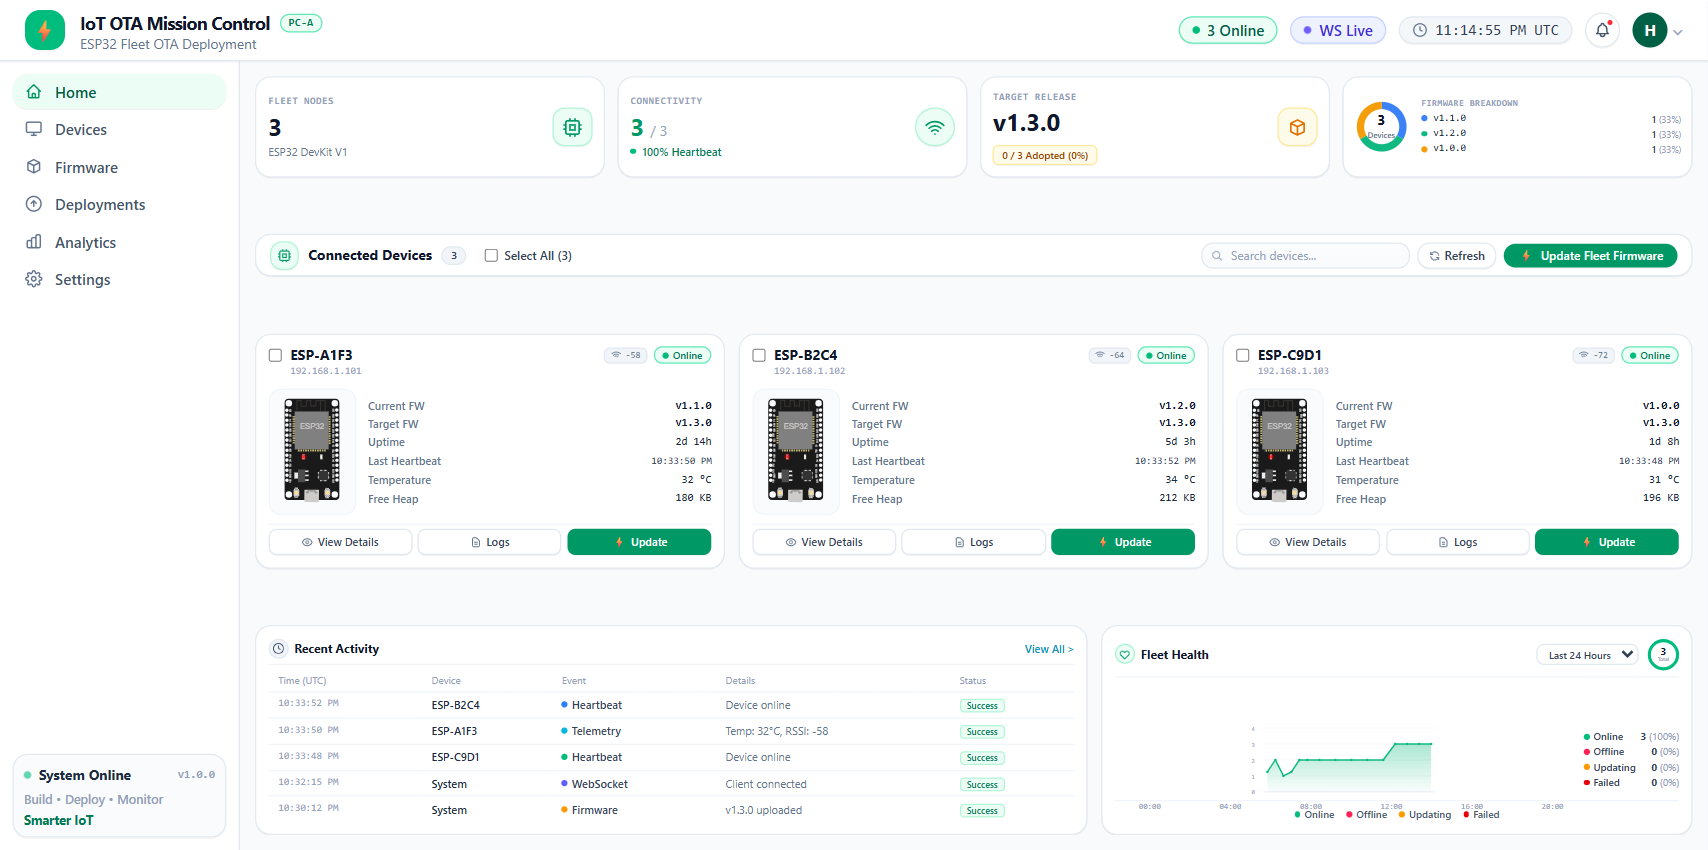
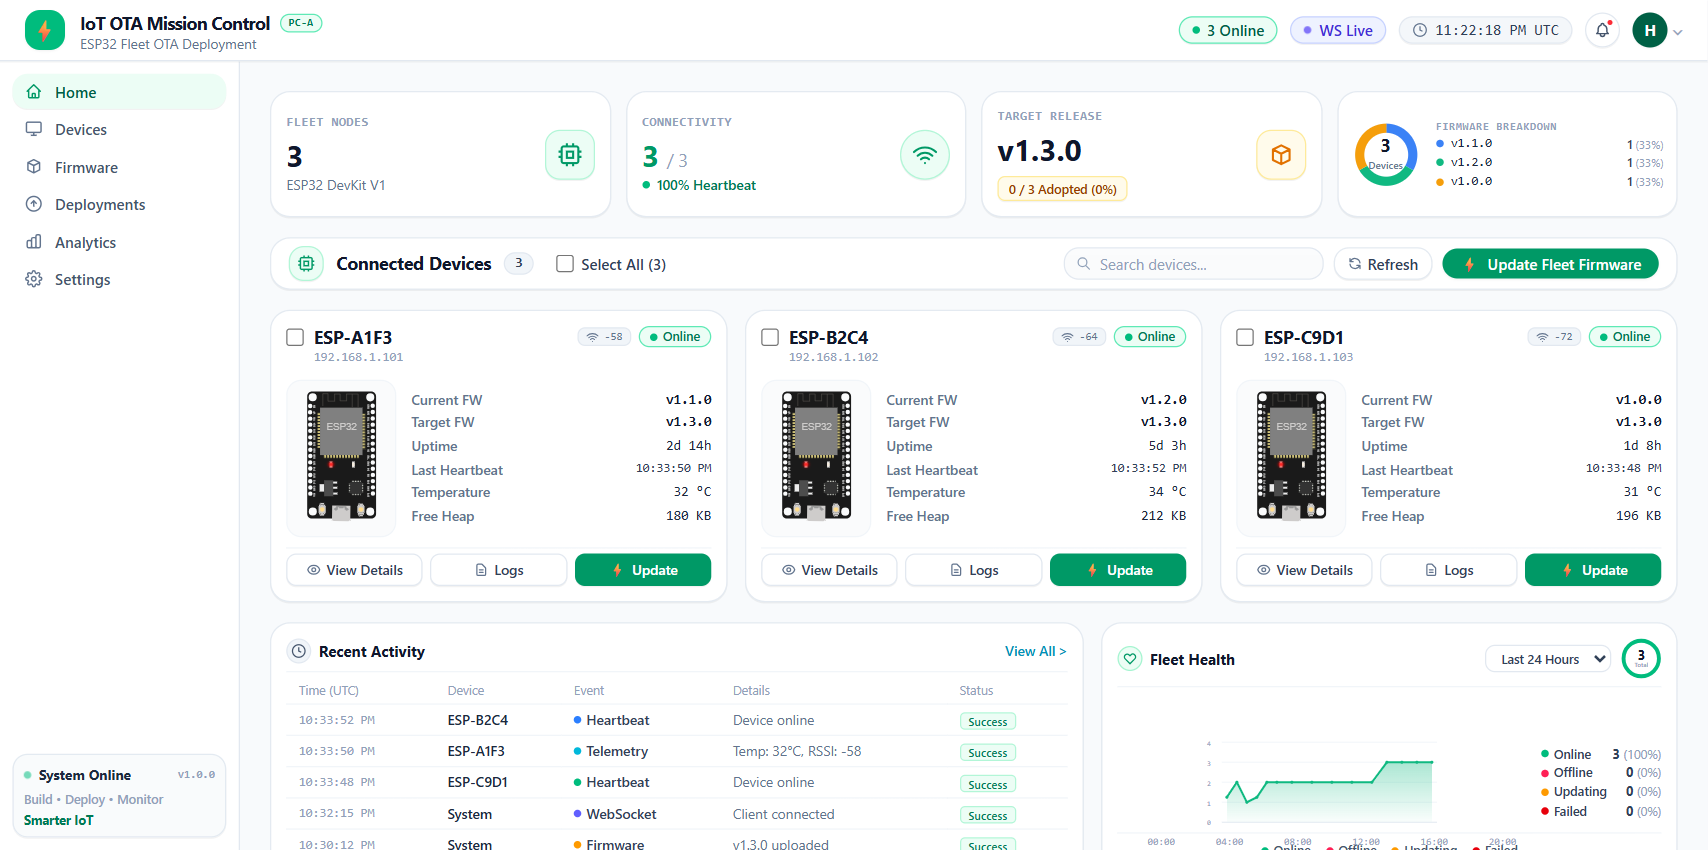
fix: remove artificial zoom scaling and restore native responsive layout with fluid scrolling

diff --git a/dashboard/src/pages/FirmwarePage.tsx b/dashboard/src/pages/FirmwarePage.tsx
@@ -1,7 +1,6 @@
 import React, { useState, useRef } from 'react'
 import type { FirmwareVersion } from '@shared/types'
 import { api } from '../hooks/useWebSocket'
-import { AdaptiveViewport } from '../components/AdaptiveViewport'
 
 interface Props {
   firmware: FirmwareVersion[]
@@ -129,8 +128,7 @@ export function FirmwarePage({ firmware, onRefresh }: Props) {
   }
 
   return (
-    <AdaptiveViewport baseHeight={700} minWidth={1000} className="w-full h-full">
-      <div className="p-6 max-w-6xl mx-auto space-y-6">
+    <div className="max-w-6xl mx-auto space-y-6 w-full">
       {/* Top Header */}
       <div className="flex items-center justify-between bg-white p-5 rounded-2xl border border-slate-200 shadow-xs">
         <div>
@@ -327,7 +325,6 @@ export function FirmwarePage({ firmware, onRefresh }: Props) {
           </div>
         </div>
       )}
-      </div>
-    </AdaptiveViewport>
+    </div>
   )
 }

diff --git a/dashboard/src/pages/FleetGrid.tsx b/dashboard/src/pages/FleetGrid.tsx
@@ -1,7 +1,6 @@
 import React, { useState, useMemo } from 'react'
 import type { Device, FirmwareVersion, LogEntry } from '@shared/types'
 import { Esp32Board } from '@shared/components/Esp32Board'
-import { AdaptiveViewport } from '../components/AdaptiveViewport'
 
 interface Props {
   devices: Device[]
@@ -136,7 +135,7 @@ export function FleetGrid({
   ]
 
   return (
-    <AdaptiveViewport baseHeight={760} minWidth={1080}>
+    <div className="space-y-4 max-w-7xl mx-auto w-full">
       {/* ─── ROW 1: 4 KPI STATS CARDS ─────────────────────────────────────────── */}
       <div className="grid grid-cols-1 sm:grid-cols-2 lg:grid-cols-4 gap-3">
         {/* Card 1: Fleet Nodes */}
@@ -720,6 +719,6 @@ export function FleetGrid({
           </div>
         </div>
       </div>
-    </AdaptiveViewport>
+    </div>
   )
 }

diff --git a/dashboard/src/pages/AnalyticsPage.tsx b/dashboard/src/pages/AnalyticsPage.tsx
@@ -1,6 +1,5 @@
 import React, { useState } from 'react'
 import type { Device, FirmwareVersion } from '@shared/types'
-import { AdaptiveViewport } from '../components/AdaptiveViewport'
 
 interface Props {
   devices: Device[]
@@ -67,7 +66,7 @@ export function AnalyticsPage({ devices, firmware }: Props) {
   ]
 
   return (
-    <AdaptiveViewport baseHeight={770} minWidth={1080}>
+    <div className="space-y-4 max-w-7xl mx-auto w-full">
       {/* ─── PAGE HEADER & GLOBAL TIMEFRAME FILTER ─────────────────────────────── */}
       <div className="flex items-center justify-between">
         <div className="flex items-center gap-2.5">
@@ -663,6 +662,6 @@ export function AnalyticsPage({ devices, firmware }: Props) {
           </div>
         </div>
       </div>
-    </AdaptiveViewport>
+    </div>
   )
 }

diff --git a/dashboard/src/App.tsx b/dashboard/src/App.tsx
@@ -294,7 +294,7 @@ export default function App() {
         </aside>
 
         {/* Right Main Content */}
-        <main className="flex-1 overflow-hidden bg-slate-50/50 p-3">
+        <main className="flex-1 overflow-y-auto bg-slate-50/50 p-4 lg:p-6">
           {(tab === 'home' || tab === 'devices') && (
             <FleetGrid
               devices={devices}
